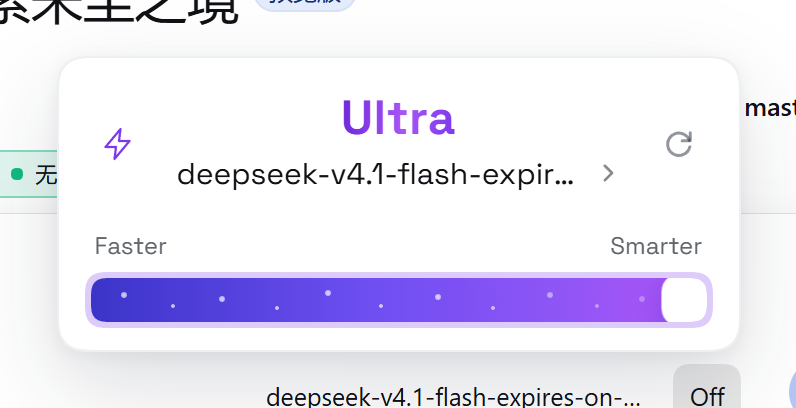
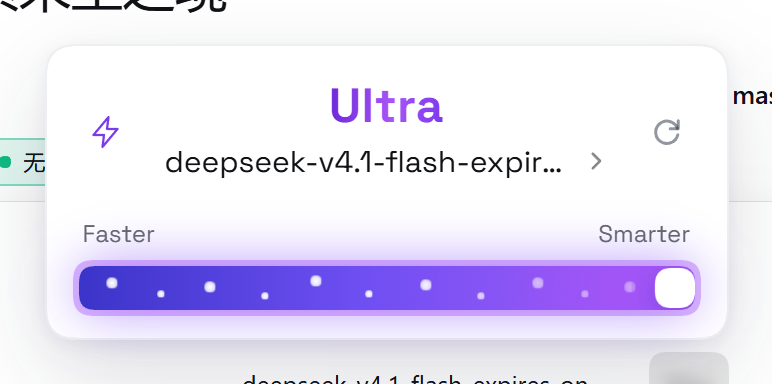
fix(dsh-ultra-effort): 手柄贴边与终点动画可见性
- 根因1：上游 .sk5-handle 自带 translateX(-50%) 且 border-radius:9px!important，
  与自定义 margin-left:-10px 叠加导致最高档偏左 10px 且呈圆角方块
  → 改写为 20px 正圆、margin-left:0、仅保留 translateX(-50%)；实测 leftGap/rightGap 均为 0
- 根因2：终点光晕被轨道 overflow 裁掉、弹跳幅度过小，观感等于无动画
  → 弹跳 0.34s/1.36x、新增手柄扩散光环 ue-ring、外发光加深、粒子亮度与尺寸提升
- reduced-motion 补上 .ue-handle::after 的动画禁用

diff --git a/dsh-ultra-effort/lib/client.js b/dsh-ultra-effort/lib/client.js
@@ -109,18 +109,20 @@ window.__ModuleLoader__.load({
 .ue-particles i:nth-child(12){left:95%;top:64%;width:2px;height:2px;animation-delay:-1.3s}
 @keyframes ue-twinkle{0%,100%{opacity:.22;transform:translateY(0) scale(.85)}50%{opacity:.95;transform:translateY(-1px) scale(1.18)}}
 /* 手柄 */
-.ue-handle{position:absolute;top:50%;width:20px;height:20px;margin-top:-10px;margin-left:-10px;border-radius:50%;background:#fff;box-shadow:0 2px 8px rgba(15,23,42,.28);z-index:4;transition:transform .16s ease,box-shadow .16s ease;}
-.ue-handle:hover{transform:scale(1.04);}
-.ue-trackMoving .ue-handle{transform:scale(1.14);box-shadow:0 4px 16px rgba(80,60,200,.45);}
+.sk5-track .ue-handle{position:absolute!important;top:50%!important;bottom:auto!important;width:20px!important;height:20px!important;margin-top:-10px!important;margin-left:0!important;border-radius:50%!important;background:#fff!important;box-shadow:0 2px 8px rgba(15,23,42,.28);z-index:4;transform:translateX(-50%);transition:transform .16s ease,box-shadow .16s ease;}
+.sk5-track .ue-handle:hover{transform:translateX(-50%) scale(1.04);}
+.ue-trackMoving .ue-handle{transform:translateX(-50%) scale(1.16)!important;box-shadow:0 4px 18px rgba(80,60,200,.5)!important;}
 .ue-trackMax .ue-handle{box-shadow:0 0 0 6px rgba(168,85,247,.18),0 3px 12px rgba(90,40,200,.5);}
 /* 终点动画：手柄弹跳 + 右侧光晕 + 粒子增亮 */
-.ue-burst .ue-handle{animation:ue-pop .26s cubic-bezier(.34,1.56,.64,1);}
-.ue-burst{box-shadow:0 0 0 2px rgba(168,85,247,.35),0 0 20px rgba(139,92,246,.55);}
+.ue-burst .ue-handle{animation:ue-pop .34s cubic-bezier(.34,1.56,.64,1)!important;}
+.ue-burst .ue-handle::after{content:"";position:absolute;inset:-4px;border-radius:50%;border:2px solid rgba(168,85,247,.75);animation:ue-ring .55s ease-out forwards;pointer-events:none;}
+@keyframes ue-ring{0%{transform:scale(.8);opacity:.9}100%{transform:scale(2.1);opacity:0}}
+.ue-burst{box-shadow:0 0 0 3px rgba(168,85,247,.4),0 0 26px rgba(139,92,246,.7)!important;}
 .ue-burst::after{content:"";position:absolute;top:-40%;right:-8%;width:66%;height:180%;background:radial-gradient(circle at 68% 50%,rgba(168,85,247,.78) 0%,rgba(139,92,246,.42) 38%,rgba(168,85,247,0) 72%);pointer-events:none;z-index:3;animation:ue-glow .52s ease-out;}
 .ue-burst .ue-particles i{animation:ue-boost .62s ease-out;}
-@keyframes ue-pop{0%{transform:scale(1)}45%{transform:scale(1.28)}100%{transform:scale(1)}}
-@keyframes ue-glow{0%{opacity:0;transform:translateX(14%) scale(.92)}35%{opacity:1}100%{opacity:0;transform:translateX(-8%) scale(1.06)}}
-@keyframes ue-boost{0%,100%{opacity:.4}40%{opacity:1;filter:blur(0) brightness(1.7)}}
+@keyframes ue-pop{0%{transform:translateX(-50%) scale(1)}45%{transform:translateX(-50%) scale(1.36)}100%{transform:translateX(-50%) scale(1)}}
+@keyframes ue-glow{0%{opacity:0;transform:translateX(18%) scale(.9)}30%{opacity:1}100%{opacity:0;transform:translateX(-14%) scale(1.1)}}
+@keyframes ue-boost{0%,100%{opacity:.35;transform:scale(1)}35%{opacity:1;transform:scale(1.9);filter:blur(0) brightness(2)}}
 /* 模型菜单（面板内） */
 .ue-models{margin:-2px -4px 0;padding:0 4px;max-height:320px;overflow-y:auto;overscroll-behavior:contain;}
 .ue-modelsTitle{margin:2px 2px 6px;font-size:12px;line-height:16px;color:rgba(15,23,42,.5);}
@@ -136,7 +138,7 @@ window.__ModuleLoader__.load({
 .ue-check{flex:none;color:#7c3aed;font-size:14px;line-height:1;}
 /* 减少动画偏好 */
 @media (prefers-reduced-motion: reduce){
-.ue-particles i,.ue-burst .ue-handle,.ue-burst::after,.ue-burst .ue-particles i,.ue-fill,.ue-handle{animation:none!important;transition:none!important;}
+.ue-particles i,.ue-burst .ue-handle,.ue-burst .ue-handle::after,.ue-burst::after,.ue-burst .ue-particles i,.ue-fill,.ue-handle{animation:none!important;transition:none!important;}
 .ue-trackMax .ue-handle{box-shadow:0 0 0 3px rgba(168,85,247,.35),0 2px 8px rgba(90,40,200,.4);}
 }
 `;		const NS = "ui-skin-switcher";
